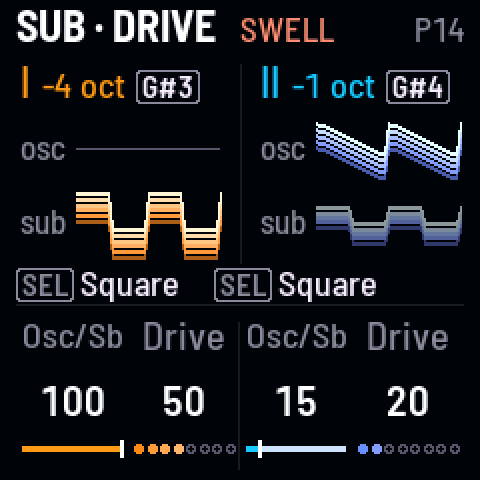
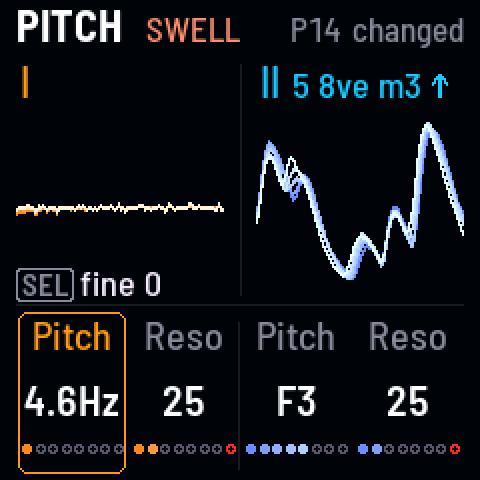
Recipes: Ticks and clicks swept deeper, from the sub first: drone I down past A0 to 4.6 Hz, the ticks from 0:01

diff --git a/docs/manual/recipes/sounds.md b/docs/manual/recipes/sounds.md
@@ -11,32 +11,34 @@ image: ticks-1.png
 
 ### Ticks and clicks {#ticks}
 
-*A sub so low it breaks into a few clicks a second*
+*A sub so low it breaks into clicks, swept down until they come one by one*
 
-Take drone I down to its lowest notes and its sub four octaves under that, and the sub stops being a tone: it becomes
-a slow tick, a few clicks a second under drone II, a pulse to play against.
+Put drone I's sub four octaves down and all the way in, and it stops being a tone: a fast flutter. Sweep drone I's
+pitch down and the flutter slows into ticks, then single clicks, a pulse to play against drone II.
 
-1. Press [[HOME]] twice for **Pitch**, and turn KNOB 1 down to drone I's lowest notes: **A0** (27.5 Hz), about 29 clicks
-   from where most Presets start.
-2. Press [[EDIT]] twice for **Sub · Drive**, and tap [[G#3]], drone I's sub, until the screen says **−4 oct**. It
+1. Press [[EDIT]] twice for **Sub · Drive**, and tap [[G#3]], drone I's sub, until the screen says **−4 oct**. It
    goes round −1, −2, ⅓, ⅕, −3, −4.
-3. Turn KNOB 1, Osc/Sb, all the way to the sub: **100**.
-4. Turn KNOB 2, Drive, up for a harder click.
+2. Turn KNOB 1, Osc/Sb, all the way to the sub: **100**. The sub flutters, fast.
+3. Turn KNOB 2, Drive, up for a harder click.
+4. Press [[HOME]] twice for **Pitch**, and turn KNOB 1, drone I's pitch, slowly down: the flutter slows into ticks.
+   Keep going past **A0**, where the screen turns to Hz: at about **5 Hz**, a click every second or two.
 
-> **Good to know.** The ticks come at drone I's pitch ÷ 16, two to a cycle (each edge of the sub's square): lower
-> drone I, slower ticks. Higher, or at −3 oct, they blur into a flutter. The clicks reach the speaker, though the hum
-> under them doesn't. The **Tick** gesture ([[G4]]) does this on its own, faster as you press harder. Or take drone I
-> itself under 20 Hz (Pitch, KNOB 1): a click each cycle, as in **Sonar** (P7).
+> **Good to know.** The clicks a second are drone I's pitch ÷ 8 (the sub is ÷ 16, two clicks to its cycle): at D3, 18
+> a second; at A0 (27.5 Hz), about 3; at 4.6 Hz, one every 1.7 s. The clicks reach the speaker, though the hum under
+> them doesn't. The **Tick** gesture ([[G4]]) does this on its own, faster as you press harder. Or take drone I itself
+> under 20 Hz with Osc/Sb at 0: a click each cycle, as in **Sonar** (P7).
 
-![Sub · Drive, drone I's sub at -4 oct, Osc/Sb 100](../media/ticks-0.png "−4 oct, all sub")
-![Sub · Drive, Drive 50](../media/ticks-1.png "Drive 50")
+![Sub · Drive, drone I's sub at -4 oct, Osc/Sb 100, Drive 50](../media/ticks-0.png "−4 oct, all sub, Drive 50")
+![Pitch, drone I at 4.6 Hz](../media/ticks-1.png "drone I down to 4.6 Hz")
 
 **Listen** (`ticks`)
 
 - 0:00 P14 Tape as it starts: worn, a hum under it
-- 0:01 drone I turned down to its lowest notes, A0: a low buzz
-- 0:04 the sub at −4 oct, all the way in: the buzz breaks into ticks, about 3 a second
-- 0:13 Drive up: each tick gets a harder edge
+- 0:01 drone I's sub at −4 oct, all the way in: a fast flutter, about 18 a second
+- 0:04 Drive up: each tick gets a harder edge
+- 0:06 drone I's pitch swept down, a semitone every quarter second: the flutter slows into ticks
+- 0:13 past A0, into Hz: single clicks, slower and slower
+- 0:21 at 4.6 Hz: a click every second or two
 
 ### A singing filter {#sing}
 
